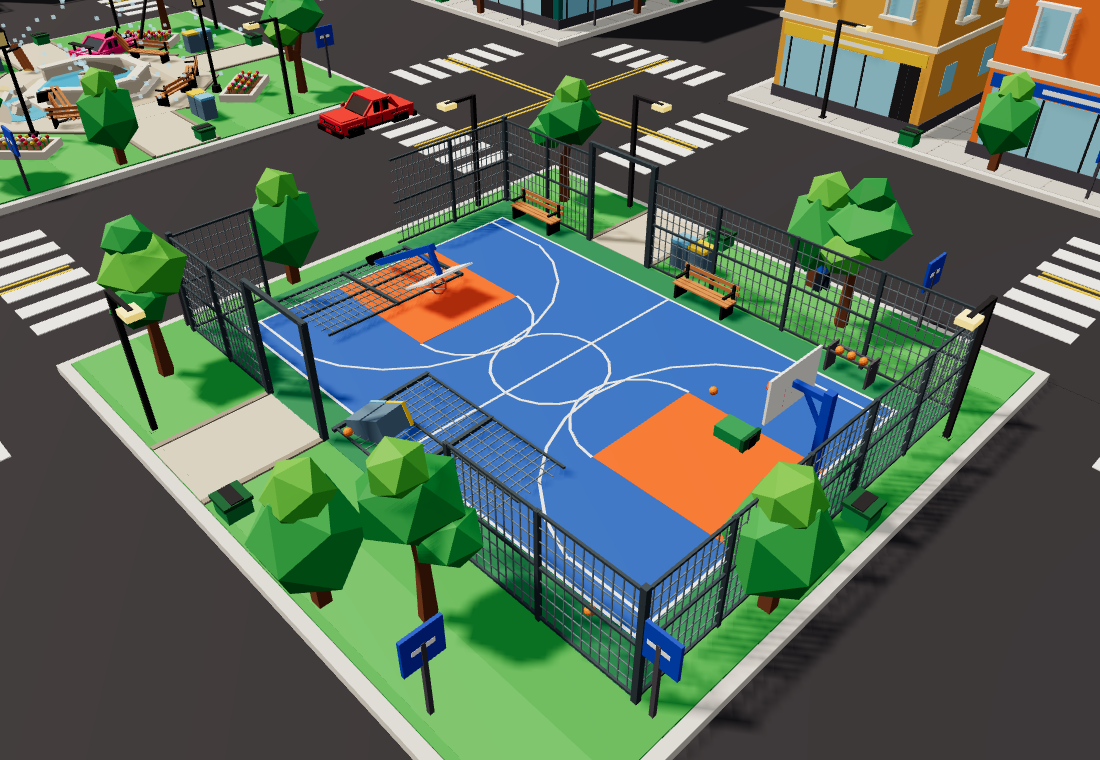
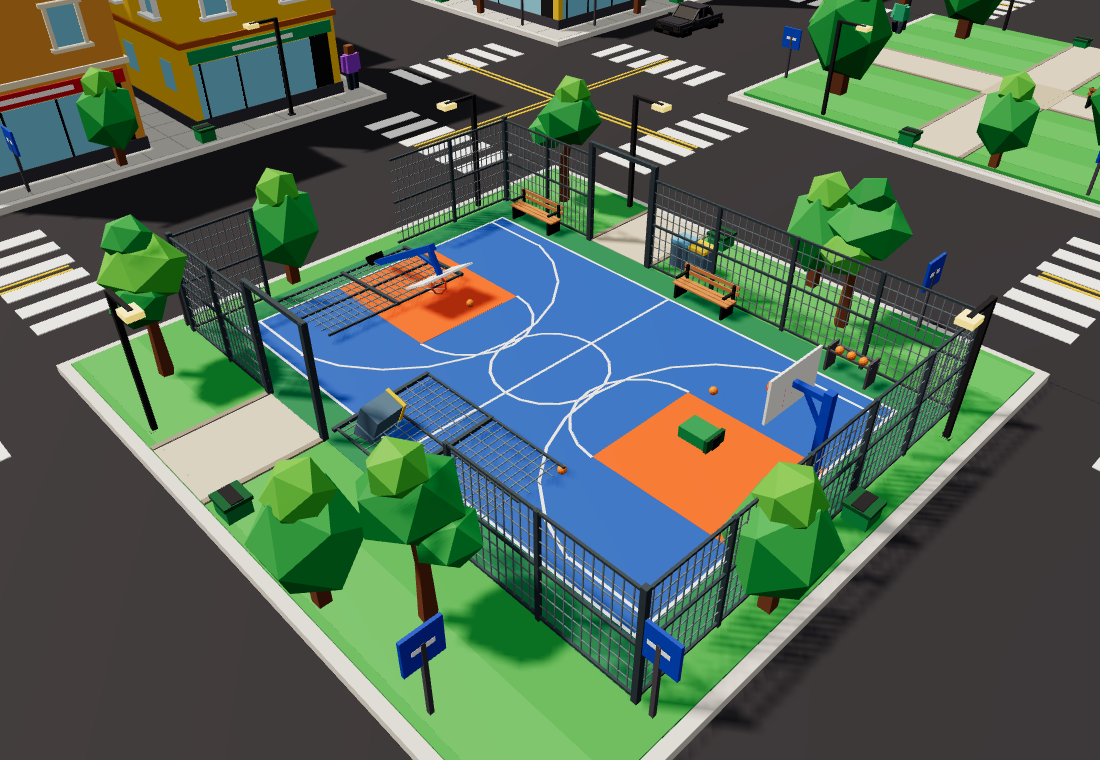
Locations preview: spread the three locations over the city
Fountain park north of the start (15, -45), gas station north-west
(-45, -45), basketball court south-east (45, 45), each at least one
block from the others.

Claude-Session: https://claude.ai/code/session_01YZpMi6JfbRkSRdUtfdwGgW

diff --git a/src/preview/locations/layout.js b/src/preview/locations/layout.js
@@ -1,9 +1,10 @@
 // Preview-only city layout: the downtown layout with three blocks turned
 // into locations. The game's own layout (world/layout.js) is not changed.
 //
-//   gas station        block (15, -15)   east of the start road, ahead
-//   basketball court   block (-15, -15)  west of the start road, ahead
-//   fountain park      block (-45, -15)  the park west of the court
+// Spread over the city, each at least one block from the others:
+//   fountain park      block (15, -45)   north of the start (a park block)
+//   gas station        block (-45, -45)  north-west
+//   basketball court   block (45, 45)    south-east
 //
 // Solid boxes added here use the game's normal collision (axis-aligned
 // boxes). Breakable things (fence panels, hoops, benches, lamps, bins) are
@@ -11,9 +12,9 @@
 // closed by debris.
 import { createLayout } from "../../world/layout.js";
 
-export const GAS = { x: 15, z: -15 };
-export const COURT = { x: -15, z: -15 };
-export const PARK = { x: -45, z: -15 };
+export const GAS = { x: -45, z: -45 };
+export const COURT = { x: 45, z: 45 };
+export const PARK = { x: 15, z: -45 };
 
 // Gas station plan (block-local metres; x east, z south).
 export const GAS_PLAN = {

diff --git a/locations.html b/locations.html
@@ -164,7 +164,7 @@
       #loc-badge .short{display:none}
       @media (max-width:640px){#loc-badge{bottom:auto;top:calc(max(10px,env(safe-area-inset-top)) + 200px);font-size:11px;padding:4px 8px}#loc-badge .long{display:none}#loc-badge .short{display:inline}}
     </style>
-    <div id="loc-badge"><span class="long">장소 미리보기 · 출발 직후 오른쪽 주유소, 왼쪽 농구장, 그 서쪽 분수 공원</span><span class="short">장소 미리보기 · 오른쪽 주유소 · 왼쪽 농구장·공원</span></div>
+    <div id="loc-badge"><span class="long">장소 미리보기 · 북쪽 분수 공원 · 북서쪽 주유소 · 남동쪽 농구장</span><span class="short">미리보기 · 공원 북 · 주유소 북서 · 농구장 남동</span></div>
     <script type="module" src="/src/preview/locations-main.js"></script>
   </body>
 </html>

diff --git a/docs/locations-preview.md b/docs/locations-preview.md
@@ -4,9 +4,9 @@
 
 | 장소 | 블록 | 내용 | 파괴 |
 |---|---|---|---|
-| 주유소 | (15, -15), 출발 직후 오른쪽 | 캐노피와 기둥, 주유기 섬 2개(주유기 4대, 노즐·호스·표시창), 편의점(유리·문·간판·아이스박스·자판기), 가격 표지탑, 배수구·주유구 | 차가 섬에 부딪히면 큰 폭발. 다른 섬도 0.45초 뒤 연쇄 폭발. 7 m 안 경찰차는 파괴, 14 m 안은 밀리고 손상. 플레이어는 10 m 안에서 최대 24 손상. 캐노피가 내려앉고 가게 유리가 깨지고 불이 계속 탐 |
-| 농구장 | (-15, -15), 출발 직후 왼쪽 | 철망 울타리(남북 출입문), 출입문에서 보도까지 이어진 산책로, 골대 2개, 벤치, 공 거치대, 공 6개, 나무, 분리수거함 | 울타리 판은 차가 뚫고 지나가며 쓰러짐. 골대는 꺾여 넘어지고 공이 튀어 흩어짐 |
-| 분수 공원 | (-45, -15), 농구장 서쪽 | 네 방향 보도에서 중앙 팔각 광장까지 이어진 산책로, 3단 분수(물줄기·물막), 대각선 꽃밭 4개, 입구마다 벤치 2개씩, 가로등, 분리수거함, 모서리 나무 | 분수에 부딪히면 물기둥과 물 튐, 위 단이 무너지고 부딪힌 쪽 수조 벽이 깨지며 물이 새고 웅덩이가 생김 |
+| 주유소 | (-45, -45), 북서쪽 | 캐노피와 기둥, 주유기 섬 2개(주유기 4대, 노즐·호스·표시창), 편의점(유리·문·간판·아이스박스·자판기), 가격 표지탑, 배수구·주유구 | 차가 섬에 부딪히면 큰 폭발. 다른 섬도 0.45초 뒤 연쇄 폭발. 7 m 안 경찰차는 파괴, 14 m 안은 밀리고 손상. 플레이어는 10 m 안에서 최대 24 손상. 캐노피가 내려앉고 가게 유리가 깨지고 불이 계속 탐 |
+| 농구장 | (45, 45), 남동쪽 | 철망 울타리(남북 출입문), 출입문에서 보도까지 이어진 산책로, 골대 2개, 벤치, 공 거치대, 공 6개, 나무, 분리수거함 | 울타리 판은 차가 뚫고 지나가며 쓰러짐. 골대는 꺾여 넘어지고 공이 튀어 흩어짐 |
+| 분수 공원 | (15, -45), 출발 지점 북쪽 | 네 방향 보도에서 중앙 팔각 광장까지 이어진 산책로, 3단 분수(물줄기·물막), 대각선 꽃밭 4개, 입구마다 벤치 2개씩, 가로등, 분리수거함, 모서리 나무 | 분수에 부딪히면 물기둥과 물 튐, 위 단이 무너지고 부딪힌 쪽 수조 벽이 깨지며 물이 새고 웅덩이가 생김 |
 
 - 부서진 상태는 미션을 다시 시작할 때까지 남습니다(`sim.runNumber`가 바뀌면 복구).
 - 단단한 충돌 상자는 편의점, 주유기 섬, 표지탑, 나무, 분수뿐입니다. 울타리·골대·벤치·가로등·쓰레기통·잔해는 통과할 수 있어 도로가 막히지 않습니다.
